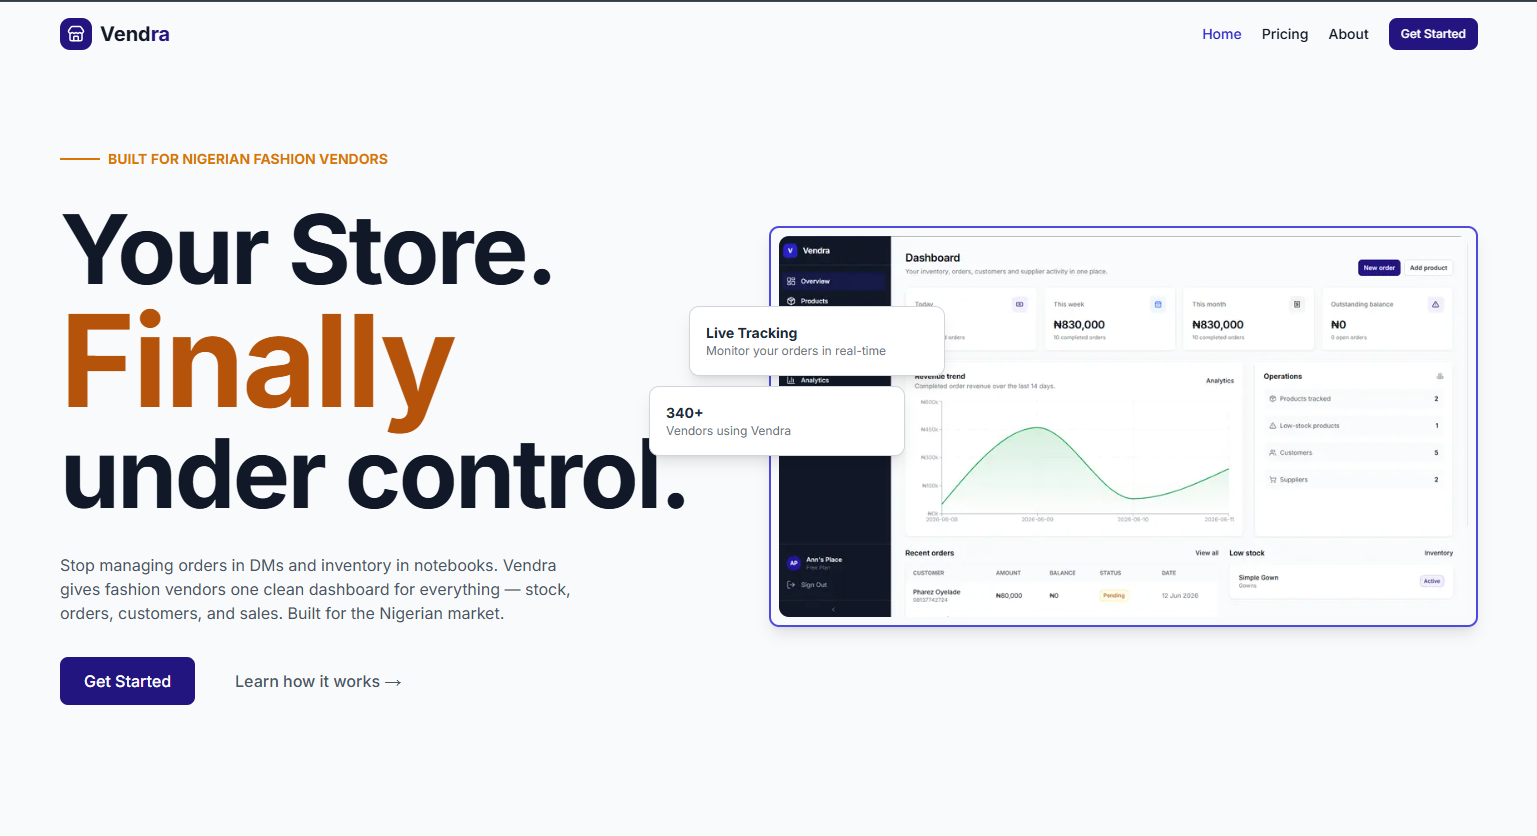
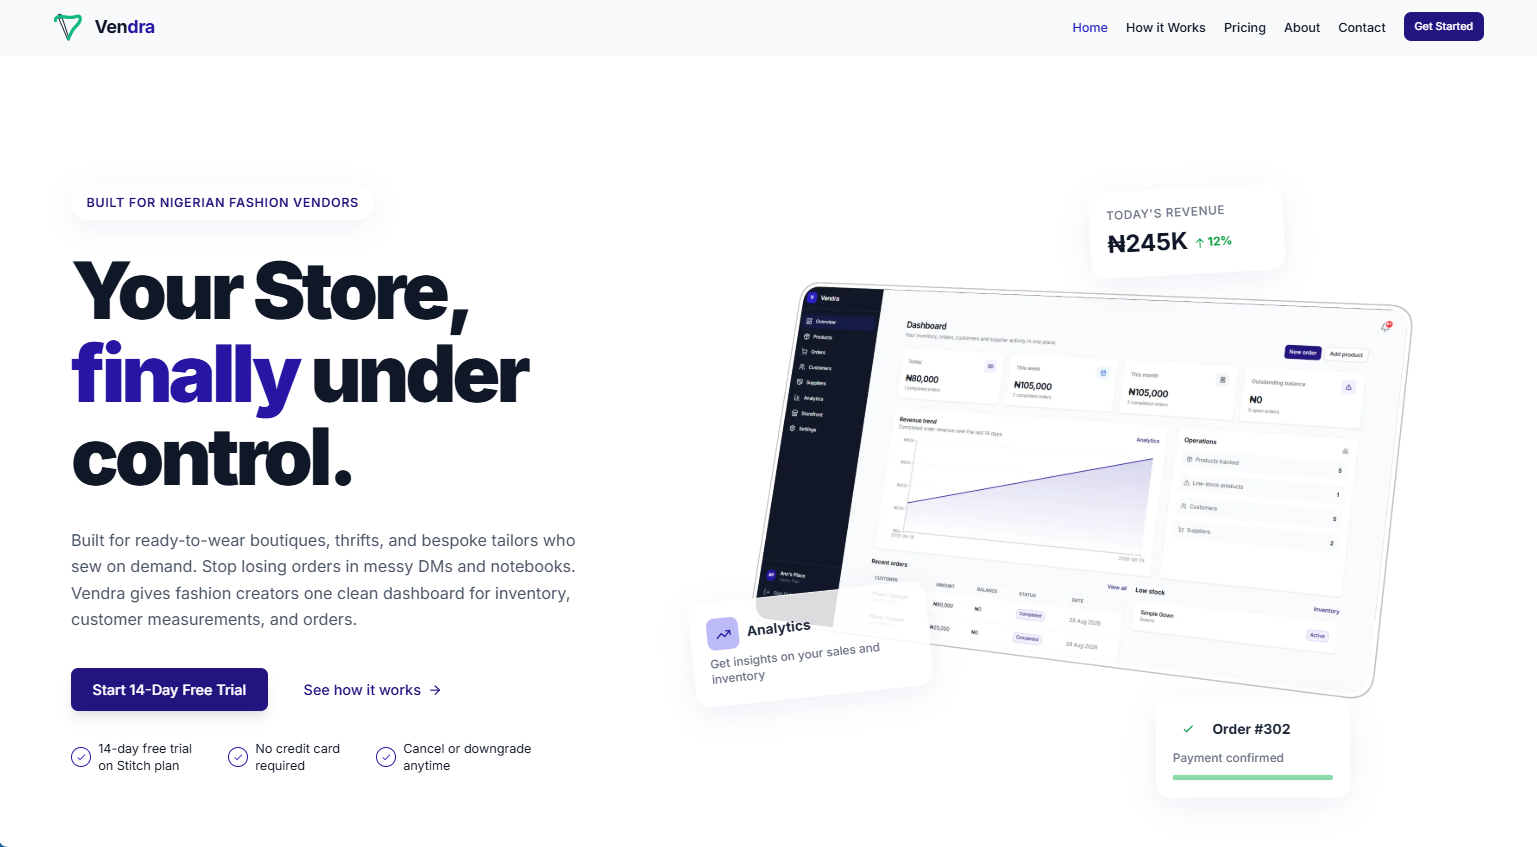
style(ui): swap vendra display image

diff --git a/public/output.css b/public/output.css
@@ -53,7 +53,6 @@
     --tracking-wide: 0.025em;
     --leading-tight: 1.25;
     --leading-relaxed: 1.625;
-    --radius-md: 0.375rem;
     --radius-lg: 0.5rem;
     --radius-xl: 0.75rem;
     --radius-2xl: 1rem;
@@ -441,9 +440,6 @@
     flex: 1;
   }
   .flex-shrink-0 {
-    flex-shrink: 0;
-  }
-  .shrink-0 {
     flex-shrink: 0;
   }
   .-translate-x-1\/2 {
